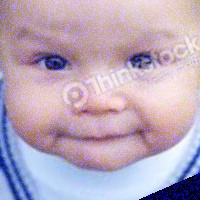
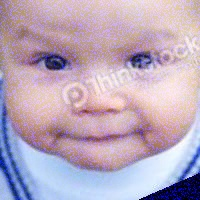
Poisson Noise

diff --git a/dataset/noise/SaltAndPepper.py b/dataset/noise/SaltAndPepper.py
@@ -1,7 +1,7 @@
 import cv2
 import numpy as np
 
-def salt_and_pepper_noise(path,output_path, amount=0.02):
+def salt_and_pepper_noise(path,output_path, amount=0.05):
     img = cv2.imread(path)
     if img is None:
         print(f"Error: Unable to load the image at {path}")
@@ -12,4 +12,3 @@ def salt_and_pepper_noise(path,output_path, amount=0.02):
     img[salt] = 255
     img[pepper] = 0
     cv2.imwrite(output_path, img)
-    print(f"Noisy image saved at: {output_path}")

diff --git a/dataset/noise/noise_main.py b/dataset/noise/noise_main.py
@@ -1,4 +1,7 @@
 from GaussianNoise import *
+from SaltAndPepper import *
 
 gaussian_noise("/home/domser/studia/semestr5/ML/dlib/repo/dataset/noise/test.jpg",
                "/home/domser/studia/semestr5/ML/dlib/repo/dataset/noise/Gaussian.jpg")
+salt_and_pepper_noise("/home/domser/studia/semestr5/ML/dlib/repo/dataset/noise/test.jpg",
+               "/home/domser/studia/semestr5/ML/dlib/repo/dataset/noise/SaltAndPepper.jpg")

diff --git a/dataset/noise/PoissonNoise.py b/dataset/noise/PoissonNoise.py
@@ -1,0 +1,11 @@
+import cv2
+import numpy as np
+
+def poisson_noise(path,output_path):
+    img = cv2.imread(path)
+    if img is None:
+        print(f"Error: Unable to load the image at {path}")
+        return
+    noisy_img = np.random.poisson(img.astype(np.float64) / 255.0) * 255.0
+    noisy_img = np.clip(noisy_img, 0, 255).astype(np.uint8)
+    cv2.imwrite(output_path, noisy_img)
